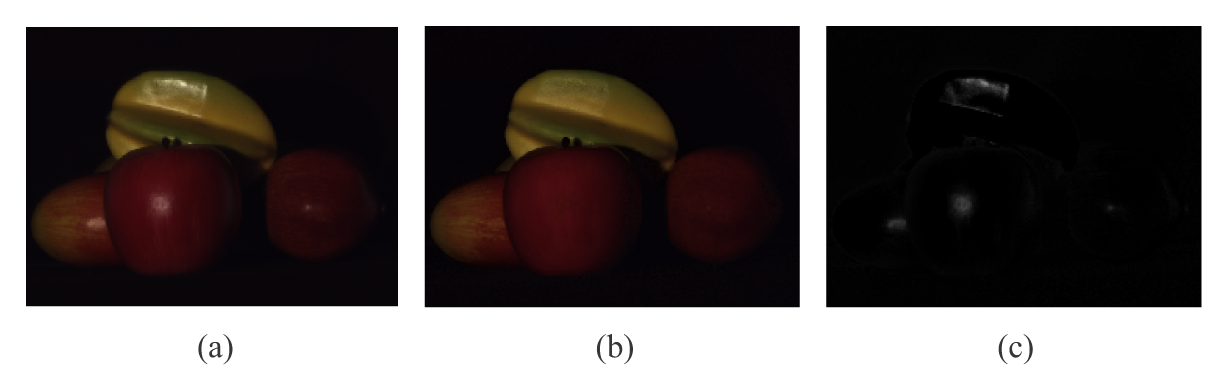
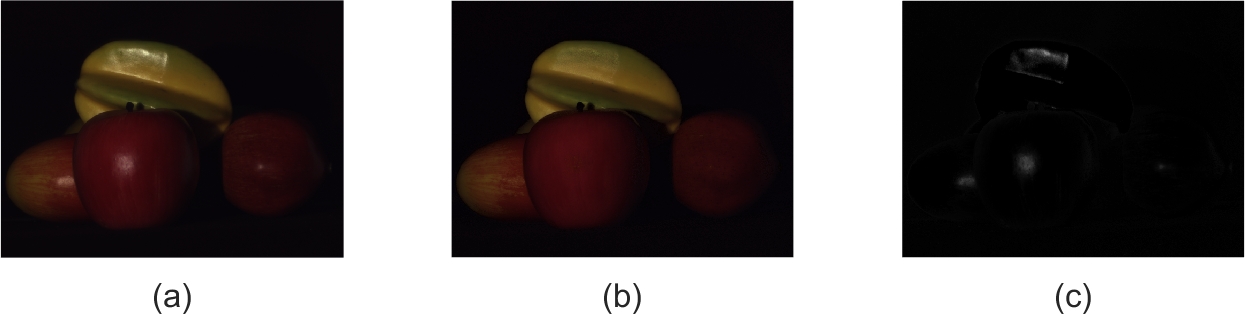
Closes #11. Minor changes (JOSS review); renamed variables in Shen2013 for conformity, added tic and toc for runtime metrics, also renamed my_quality.m to automated_testing.m. Moreover, I added a table with average metrics over the Shen and Zheng dataset, with references to the to-date implemented p

diff --git a/Shen2013/Shen2013.m b/Shen2013/Shen2013.m
@@ -1,5 +1,5 @@
-function J_d = Shen2013(J)
-%Shen2013 J_d = Shen2013(J)
+function I_d = Shen2013(I)
+%Shen2013 I_d = Shen2013(I)
 %  You can optionally edit the code to use kmeans instead of the clustering
 %  function proposed by the author.
 %  
@@ -8,48 +8,48 @@ function J_d = Shen2013(J)
 %  
 %  See also SIHR, Shen2008, Shen2009.
 
-assert(isa(J, 'float'), 'SIHR:I:notTypeSingleNorDouble', ...
+assert(isa(I, 'float'), 'SIHR:I:notTypeSingleNorDouble', ...
     'Input I is not type single nor double.')
-assert(min(J(:)) >= 0 && max(J(:)) <= 1, 'SIHR:I:notWithinRange', ...
+assert(min(I(:)) >= 0 && max(I(:)) <= 1, 'SIHR:I:notWithinRange', ...
     'Input I is not within [0, 1] range.')
-[n_row, n_col, n_ch] = size(J);
+[n_row, n_col, n_ch] = size(I);
 assert(n_row > 1 && n_col > 1, 'SIHR:I:singletonDimension', ...
     'Input I has a singleton dimension.')
 assert(n_ch == 3, 'SIHR:I:notRGB', ...
     'Input I is not a RGB image.')
 
-height = size(J, 1);
-width = size(J, 2);
-J = reshape(J, [height * width, 3]);
+height = size(I, 1);
+width = size(I, 2);
+I = reshape(I, [height * width, 3]);
 
-Jmin = min(J, [], 2);
-Jmax = max(J, [], 2);
-Jran = Jmax - Jmin;
+Imin = min(I, [], 2);
+Imax = max(I, [], 2);
+Iran = Imax - Imin;
 
-umin_val = mean2(Jmin);
+umin_val = mean2(Imin);
 
-Jmask = Jmin > umin_val;
+Imask = Imin > umin_val;
 
-Jch_pseudo = zeros([height * width, 2]);
+Ich_pseudo = zeros([height * width, 2]);
 frgb = zeros([height * width, 3]);
 crgb = frgb;
 srgb = zeros([height * width, 1]);
 
-frgb(Jmask, :) = J(Jmask, :) - Jmin(Jmask) + umin_val;
-srgb(Jmask) = sum(frgb(Jmask, :), 2);
-crgb(Jmask, :) = frgb(Jmask, :) ./ srgb(Jmask);
+frgb(Imask, :) = I(Imask, :) - Imin(Imask) + umin_val;
+srgb(Imask) = sum(frgb(Imask, :), 2);
+crgb(Imask, :) = frgb(Imask, :) ./ srgb(Imask);
 
-Jch_pseudo(Jmask, 1) = min(min(crgb(Jmask, 1), crgb(Jmask, 2)), crgb(Jmask, 3));
-Jch_pseudo(Jmask, 2) = max(max(crgb(Jmask, 1), crgb(Jmask, 2)), crgb(Jmask, 3));
+Ich_pseudo(Imask, 1) = min(min(crgb(Imask, 1), crgb(Imask, 2)), crgb(Imask, 3));
+Ich_pseudo(Imask, 2) = max(max(crgb(Imask, 1), crgb(Imask, 2)), crgb(Imask, 3));
 
 % num_clust = 3;
-% Jclust = zeros([height * width, 1]);
-% Jclust(Jmask) = kmeans([Jch_pseudo(Jmask, 1), Jch_pseudo(Jmask, 2)], num_clust, 'Distance', 'cityblock', 'Replicates', ceil(sqrt(num_clust)));
+% Iclust = zeros([height * width, 1]);
+% Iclust(Imask) = kmeans([Ich_pseudo(Imask, 1), Ich_pseudo(Imask, 2)], num_clust, 'Distance', 'cityblock', 'Replicates', ceil(sqrt(num_clust)));
 th_chroma = 0.3;
-[Jclust, num_clust] = pixel_clustering(Jch_pseudo, Jmask, width, height, th_chroma);
+[Iclust, num_clust] = pixel_clustering(Ich_pseudo, Imask, width, height, th_chroma);
 
 ratio = zeros([height * width, 1]);
-Jratio = zeros([height * width, 1]);
+Iratio = zeros([height * width, 1]);
 
 N = width * height;
 EPS = 1e-10;
@@ -58,8 +58,8 @@ th_percent = 0.5;
 for k = 1:num_clust
     num = 0;
     for i = 1:N
-        if (Jclust(i) == k && Jran(i) > umin_val)
-            ratio(num+1) = Jmax(i) / (Jran(i) + EPS);
+        if (Iclust(i) == k && Iran(i) > umin_val)
+            ratio(num+1) = Imax(i) / (Iran(i) + EPS);
             num = num + 1;
         end
     end
@@ -72,35 +72,35 @@ for k = 1:num_clust
     ratio_est = tmp(round(num*th_percent)+1);
 
     for i = 1:N
-        if (Jclust(i) == k)
-            Jratio(i) = ratio_est;
+        if (Iclust(i) == k)
+            Iratio(i) = ratio_est;
         end
     end
 end
 
-J_s = zeros([height * width, 1]);
-J_d = J;
+I_s = zeros([height * width, 1]);
+I_d = I;
 
 for i = 1:N
-    if (Jmask(i) == 1)
-        uvalue = (Jmax(i) - Jratio(i) * Jran(i)); % round( . )
-        J_s(i) = max(uvalue, 0);
-        fvalue = J(i, 1) - J_s(i);
-        J_d(i, 1) = (clip(fvalue, 0, 1)); % round
-        fvalue = J(i, 2) - J_s(i);
-        J_d(i, 2) = (clip(fvalue, 0, 1)); % round
-        fvalue = J(i, 3) - J_s(i);
-        J_d(i, 3) = (clip(fvalue, 0, 1)); % round
+    if (Imask(i) == 1)
+        uvalue = (Imax(i) - Iratio(i) * Iran(i)); % round( . )
+        I_s(i) = max(uvalue, 0);
+        fvalue = I(i, 1) - I_s(i);
+        I_d(i, 1) = (clip(fvalue, 0, 1)); % round
+        fvalue = I(i, 2) - I_s(i);
+        I_d(i, 2) = (clip(fvalue, 0, 1)); % round
+        fvalue = I(i, 3) - I_s(i);
+        I_d(i, 3) = (clip(fvalue, 0, 1)); % round
     end
 end
 
-% J_s = reshape(J_s, [height, width]);
-J_d = reshape(J_d, [height, width, 3]);
+% I_s = reshape(I_s, [height, width]);
+I_d = reshape(I_d, [height, width, 3]);
 
 end
 
 
-function [Jclust, num_clust] = pixel_clustering(Jch_pseudo, Jmask, width, height, th_chroma)
+function [Iclust, num_clust] = pixel_clustering(Ich_pseudo, Imask, width, height, th_chroma)
 MAX_NUM_CLUST = 100;
 
 label = 0;
@@ -111,20 +111,20 @@ num_pixel = zeros([MAX_NUM_CLUST, 1]);
 
 N = width * height;
 
-Jdone = zeros([height * width, 1], 'logical');
-Jclust = zeros([height * width, 1], 'uint8');
+Idone = zeros([height * width, 1], 'logical');
+Iclust = zeros([height * width, 1], 'uint8');
 
 for i = 1:N
-    if (Jdone(i) == 0 && Jmask(i) == 1)
-        c(1) = Jch_pseudo(i, 1);
-        c(2) = Jch_pseudo(i, 2);
+    if (Idone(i) == 0 && Imask(i) == 1)
+        c(1) = Ich_pseudo(i, 1);
+        c(2) = Ich_pseudo(i, 2);
         label = label + 1;
         for j = i:N
-            if (Jdone(j) == 0 && Jmask(j) == 1)
-                dist = abs(c(1)-Jch_pseudo(j, 1)) + abs(c(2)-Jch_pseudo(j, 2));
+            if (Idone(j) == 0 && Imask(j) == 1)
+                dist = abs(c(1)-Ich_pseudo(j, 1)) + abs(c(2)-Ich_pseudo(j, 2));
                 if (dist < th_chroma)
-                    Jdone(j) = 1;
-                    Jclust(j) = label;
+                    Idone(j) = 1;
+                    Iclust(j) = label;
                 end
             end
         end
@@ -138,11 +138,11 @@ if num_clust > MAX_NUM_CLUST
 end
 
 for i = 1:N
-    k = Jclust(i);
+    k = Iclust(i);
     if (k >= 1 && k <= num_clust)
         num_pixel(k) = num_pixel(k) + 1;
-        clust_mean(k, 1) = clust_mean(k, 1) + Jch_pseudo(i, 1);
-        clust_mean(k, 2) = clust_mean(k, 2) + Jch_pseudo(i, 2);
+        clust_mean(k, 1) = clust_mean(k, 1) + Ich_pseudo(i, 1);
+        clust_mean(k, 2) = clust_mean(k, 2) + Ich_pseudo(i, 2);
     end
 end
 
@@ -152,9 +152,9 @@ for k = 1:num_clust
 end
 
 for i = 1:N
-    if Jmask(i) == 1
-        c(1) = Jch_pseudo(i, 1);
-        c(2) = Jch_pseudo(i, 2);
+    if Imask(i) == 1
+        c(1) = Ich_pseudo(i, 1);
+        c(2) = Ich_pseudo(i, 2);
         dist_min = abs(c(1)-clust_mean(2, 1)) + abs(c(2)-clust_mean(2, 2));
         label = 1;
         for k = 2:num_clust
@@ -164,7 +164,7 @@ for i = 1:N
                 label = k;
             end
         end
-        Jclust(i) = label;
+        Iclust(i) = label;
     end
 end
 

diff --git a/utils/automated_testing.m b/utils/automated_testing.m
@@ -16,6 +16,7 @@ for i = 1:length(name)
     truth{i} = im2double(imread([name{i}, gt, ext]));
 end
 
+my_toc = zeros(length(method), length(name));
 my_psnr = zeros(length(method), length(name));
 if ~is_octave
     my_ssim = zeros(length(method), length(name));
@@ -25,7 +26,10 @@ for m = 1:length(method)
     disp(['Method ', func2str(method{m})])
     for i = 1:length(name)
         disp(['  Image ', name{i}])
+        tic
         I_d = feval(method{m}, image{i});
+        my_toc(m, i) = toc;
+        disp(['    Elapsed time ', num2str(my_toc(m, i)), ' s'])
         my_psnr(m, i) = psnr(I_d, truth{i});
         if ~is_octave
             my_ssim(m, i) = ssim(I_d, truth{i});

diff --git a/paper/figures/example.m b/paper/figures/example.m
@@ -1,0 +1,10 @@
+I = im2double(imread('fruit.bmp'));
+I_d = Yang2010(I);
+figure(1)
+subplot(1, 3, 1), imshow(I), xlabel('(a)', 'FontName', 'Helvetica', 'FontSize', 8, 'VerticalAlignment', 'bottom')
+subplot(1, 3, 2), imshow(I_d), xlabel('(b)', 'FontName', 'Helvetica', 'FontSize', 8, 'VerticalAlignment', 'bottom')
+subplot(1, 3, 3), imshow(I-I_d), xlabel('(c)', 'FontName', 'Helvetica', 'FontSize', 8, 'VerticalAlignment', 'bottom')
+set(gcf, 'PaperUnits', 'inches')
+set(gcf, 'PaperPosition', [0, 0, 5.35, 3])
+print('example.png', '-dpng', '-r300')
+% convert figure1.png -trim figure1.png

diff --git a/paper/paper.md b/paper/paper.md
@@ -9,6 +9,7 @@ tags:
   - image processing
   - image texture analysis
   - matlab
+  - octave
 authors:
   - name: Vítor S. Ramos
     orcid: 0000-0002-7583-5577
@@ -16,23 +17,43 @@ authors:
 affiliations:
  - name: Federal University of Rio Grande do Norte
    index: 1
-date: 26 October 2019
+date: 23 November 2019
 bibliography: paper.bib
 ---
 
 # Summary
 
-Single image highlight removal (SIHR) refers to an open problem in computer vision concerning the separation of diffuse and specular reflection components from a single image [@Tan2014]. It is an intrinsic image decomposition, so it has several applications. Recently, there was an interest renewal in this problem for the objective of image enhancement in visual display systems such as TVs [@Yamamoto2017].
+Single image highlight removal (SIHR) refers to an open problem in computer vision concerning the separation of diffuse and specular reflection components from a single image [@Tan2014]. Briefly, the diffuse component refers to a generally low-parametric reflection that takes the color of the body, while the specular component refers to a higher-frequency reflection that takes the color of the illuminant. Under the dichromatic reflection model [@Shafer1985], they are linearly additive. It is an intrinsic image decomposition, so it has several applications. Recently, there was an interest renewal in this problem for the objective of image enhancement in visual display systems such as TVs [@Yamamoto2017].
 
 ![Example decomposition. (a\) Input, (b\) diffuse, and (c\) specular reflection components](figures/example.png)
 
 The primary objective of this toolbox is to serve as an aid for ongoing research and development of SIHR methods. Being written in such a high-level language that is MATLAB/GNU Octave allows an easier understanding of the inner workings of these methods. To the best of our knowledge, the resources available to further the understanding of this specific problem are relatively scarce.
 
-Hence, we have started ``SIHR`` to implement and gather several different methods from technical literature -- starting from the most performing ones, since the abovementioned systems operate on a limited computing budget and need timely processing. Other methods of interest can be found in recent surveys [@Artusi2011; @Khan2017].
+Hence, we have started ``SIHR`` to implement and gather several different methods from technical literature--starting from the most performing ones, since the abovementioned systems operate on a limited computing budget and need timely processing. Other methods of interest can be found in recent surveys [@Artusi2011; @Khan2017].
 
-Usage is rather straightforward as the focus of these methods is to work with only a single linear RGB image, i.e. an *m*×*n*×3 matrix. For uniformity, we ask the image to be double-valued. In ``SIHR``, calls are simply ``I_d = AuthorYEAR(I);``, in which ``I`` is the original image and ``I_d`` is the estimate diffuse component calculated by the ``AuthorYEAR`` method. We refer to the ``SIHR`` documentation for the latest list of methods available. The specular component is ``I_s = I - I_d;``.
+Usage is rather straightforward as the focus of these methods is to work with only a single linear RGB image, i.e. an *m*×*n*×3 matrix. For uniformity, we ask the image to be double-valued. In ``SIHR``, calls are simply ``I_d = AuthorYEAR(I);``, in which ``I`` is the original image and ``I_d`` is the diffuse component estimate calculated by the ``AuthorYEAR`` method. The specular component is ``I_s = I - I_d;``.
 
-Figure 1 presents an actual result of a method from technical literature which was implemented in ``SIHR``.
+As of time of writing, the following methods are available. We refer to the ``SIHR`` documentation for the latest list of methods available.
+
+| Function      | Method        | PSNR (dB) | SSIM  | Runtime (s) |
+|:-------------:|:-------------:|:---------:|:-----:|:-----------:|
+| `Tan2005`     | @Tan2005      | 29.5      | 0.888 | 160         |
+| `Yoon2006`    | @Yoon2006     | 34.2      | 0.964 | 2.6         |
+| `Shen2008`    | @Shen2008     | 35.5      | 0.960 | 4.7         |
+| `Shen2009`    | @Shen2009     | 35.8      | 0.970 | 0.26        |
+| `Yang2010`    | @Yang2010     | 35.9      | 0.925 | 0.16        |
+| `Shen2013`    | @Shen2013     | 36.7      | 0.960 | 0.063       |
+| `Akashi2016`  | @Akashi2016   | 34.3      | 0.856 | 180         |
+
+Table: List of methods in `SIHR`
+
+| Function       | Method        |
+|:--------------:|:-------------:|
+| `Yamamoto2019` | @Yamamoto2019 |
+
+Table: List of improvements in `SIHR`
+
+Figure 1 presents an actual result of a method from technical literature which was implemented in ``SIHR``. In Table 1, the reproduced metrics are from the @Shen2013 dataset, and were averaged--for each metric--for all four images.
 
 ``SIHR`` aims to be a continuous project and welcomes community contributions. The source code for ``SIHR`` is being archived by Zenodo since its pre-release version [@Ramos2019].
 

diff --git a/README.md b/README.md
@@ -119,7 +119,7 @@ Quantitative results reported are usually regarding the quality of the recovered
 
 #### Automated testing
 
-Reproduced results below are available in the [`utils/my_quality.m`](https://github.com/vitorsr/SIHR/blob/master/utils/my_quality.m) script.
+Reproduced results below are available in the [`utils/automated_testing.m`](https://github.com/vitorsr/SIHR/blob/master/utils/automated_testing.m) script.
 
 Note: `ssim` is not available in Octave Forge `image`.
 
@@ -154,6 +154,20 @@ Note: `ssim` is not available in Octave Forge `image`.
 |2016| Suo *et al.*       | -         | -         | -         | -         | -            | -         | -      | -       | -       |
 |2017| Ren *et al.*       | 0.896     | 0.957     | 0.952     | 0.913     | -            | -         | -      | -       | -       |
 |2018| Guo *et al.*       | **0.975** | *0.963*   | 0.930     | **0.955** | -            | -         | -      | -       | -       |
+
+#### Expected running time (in seconds)
+
+Note: results for MATLAB R2019b, Intel i5-8250U CPU, and 24 GB DDR4 2400 MHz RAM.
+
+|Year| Reproduced   | *animals* | *cups*   | *fruit*   | *masks*   |
+|:--:|--------------|:---------:|:--------:|:---------:|:---------:|
+|2005| `Tan2005`    | 67.0      | 170.0    | 210.0     | 190.0     |
+|2006| `Yoon2006`   | 2.8       | 1.6      | 2.6       | 3.4       |
+|2008| `Shen2008`   | 1.9       | 7.8      | 4.3       | 4.9       |
+|2009| `Shen2009`   | 0.9       | **0.05** | **0.041** | **0.029** |
+|2010| `Yang2010`   | *0.31*    | 0.13     | 0.11      | 0.081     |
+|2013| `Shen2013`   | **0.043** | *0.071*  | *0.083*   | *0.056*   |
+|2016| `Akashi2016` | 140.0     | 170.0    | 230.0     | 200.0     |
 
 ## References
 

diff --git a/CONTRIBUTING.md b/CONTRIBUTING.md
@@ -33,11 +33,11 @@ Since we're a small community and this is a rather small repository, feel free t
 
 As the methods are single-input, single-output, general testing and functionality verification is done by simply invoking the methods' functions with a valid input.
 
-Additionally on a general note, I expect that new methods contributed fulfill the `I_d = AuthorYEAR(I);` command, `I` being any input image of numeric floating-point class `single | double` representing linear RGB values in `[0, 1]` and size *M*×*N*×3, *M* and *N* non-zero, non-singleton, positive integers, and `I_d` the corresponding diffuse image of same class, domain and dimension.
+Additionally on a general note, I expect that new methods contributed fulfill the `I_d = AuthorYEAR(I);` command, `I` being any input image of numeric floating-point class `single | double` representing linear RGB values in `[0, 1]` and size *m*×*n*×3, *m* and *n* non-zero, non-singleton, positive integers, and `I_d` the corresponding diffuse image of same class, domain and dimension.
 
 In short: double RGB image in, double RGB image out.
 
-Note: there is a [`utils/my_quality.m`](https://github.com/vitorsr/SIHR/blob/master/utils/my_clip.m) script to reproduce reported quality results. Be warned that `Tan2005`, `Yoon2006` and `Akashi2016` run very slowly on Octave (lots of iterations).
+Note: there is a [`utils/automated_testing.m`](https://github.com/vitorsr/SIHR/blob/master/utils/my_clip.m) script to reproduce reported quality results. Be warned that `Tan2005`, `Yoon2006` and `Akashi2016` run very slowly on Octave (lots of iterations).
 
 ## Submitting changes
 
